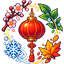
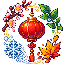
feat: 用缩小尺寸原图替换 Power 图标，万骸归潮余甲改用独立图标（256x256）并补充本地化名称

diff --git a/GuZhenRenCode/Powers/XueDao/WanHaiGuiChaoRetainBlockPower.cs b/GuZhenRenCode/Powers/XueDao/WanHaiGuiChaoRetainBlockPower.cs
@@ -23,9 +23,9 @@ public sealed class WanHaiGuiChaoRetainBlockPower
 
     public override PowerAssetProfile AssetProfile => new(
         IconPath:
-            "res://GuZhenRen//images//power//XueQiRecoveryPower-64x64.png",
+            "res://GuZhenRen//images//power//WanHaiGuiChaoRetainBlockPower-64x64.png",
         BigIconPath:
-            "res://GuZhenRen/images/power/XueQiRecoveryPower-256x256.png"
+            "res://GuZhenRen//images//power//WanHaiGuiChaoRetainBlockPower-256x256.png"
     );
 
     public override async Task AfterEnergyReset(Player player)
